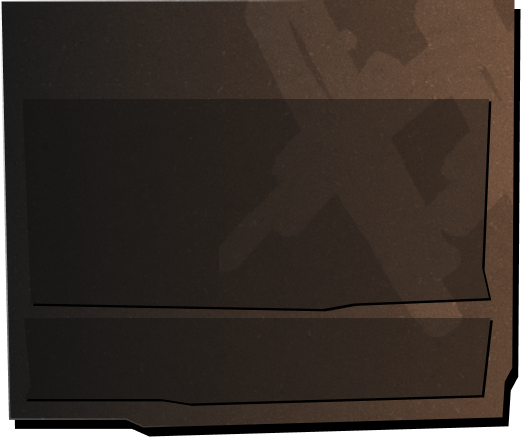
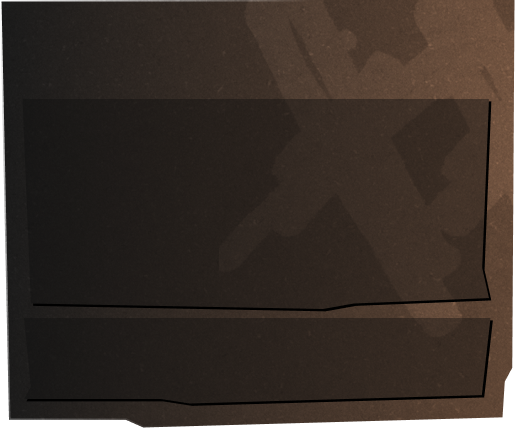
Update event item

Changed region(s): [[0.0, 0.0, 1.0, 1.0], [0.0932, 0.6874, 0.1243, 0.7172]]

diff --git a/packages/extension-koni-ui/src/components/Mythical/Event/EventItem.tsx b/packages/extension-koni-ui/src/components/Mythical/Event/EventItem.tsx
@@ -191,11 +191,20 @@ export const EventItem = styled(Component)<EventItemProps>(({ difficulty,
 
   return ({
     minHeight: 297,
-    backgroundImage: `url("${itemBackground}")`,
-    backgroundSize: '100% 285px',
-    backgroundPosition: 'left bottom',
-    backgroundRepeat: 'no-repeat',
+
     position: 'relative',
+
+    '&:before': {
+      content: '""',
+      position: 'absolute',
+      display: 'block',
+      inset: 0,
+      backgroundImage: `url("${itemBackground}")`,
+      backgroundSize: '100% 285px',
+      filter: 'drop-shadow(4px 6px 0px #000)',
+      backgroundPosition: 'left bottom',
+      backgroundRepeat: 'no-repeat'
+    },
 
     '.__item-name-block': {
       backgroundImage: 'url("/images/mythical/event-item-name.png")',
@@ -281,7 +290,7 @@ export const EventItem = styled(Component)<EventItemProps>(({ difficulty,
 
     '.__item-logo': {
       position: 'absolute',
-      right: -7,
+      right: -12,
       top: -11,
       width: 165,
       height: 'auto'
@@ -318,7 +327,7 @@ export const EventItem = styled(Component)<EventItemProps>(({ difficulty,
       fontSize: 16
     },
 
-    '.__item-bonus-info +.__item-stat-info': {
+    '.__item-bonus-info + .__item-stat-info': {
       marginTop: 6
     },
 
@@ -343,7 +352,7 @@ export const EventItem = styled(Component)<EventItemProps>(({ difficulty,
       height: 57,
       display: 'flex',
       paddingLeft: 19,
-      paddingRight: 14,
+      paddingRight: 10,
       justifyContent: 'space-between',
       gap: 8
     },
